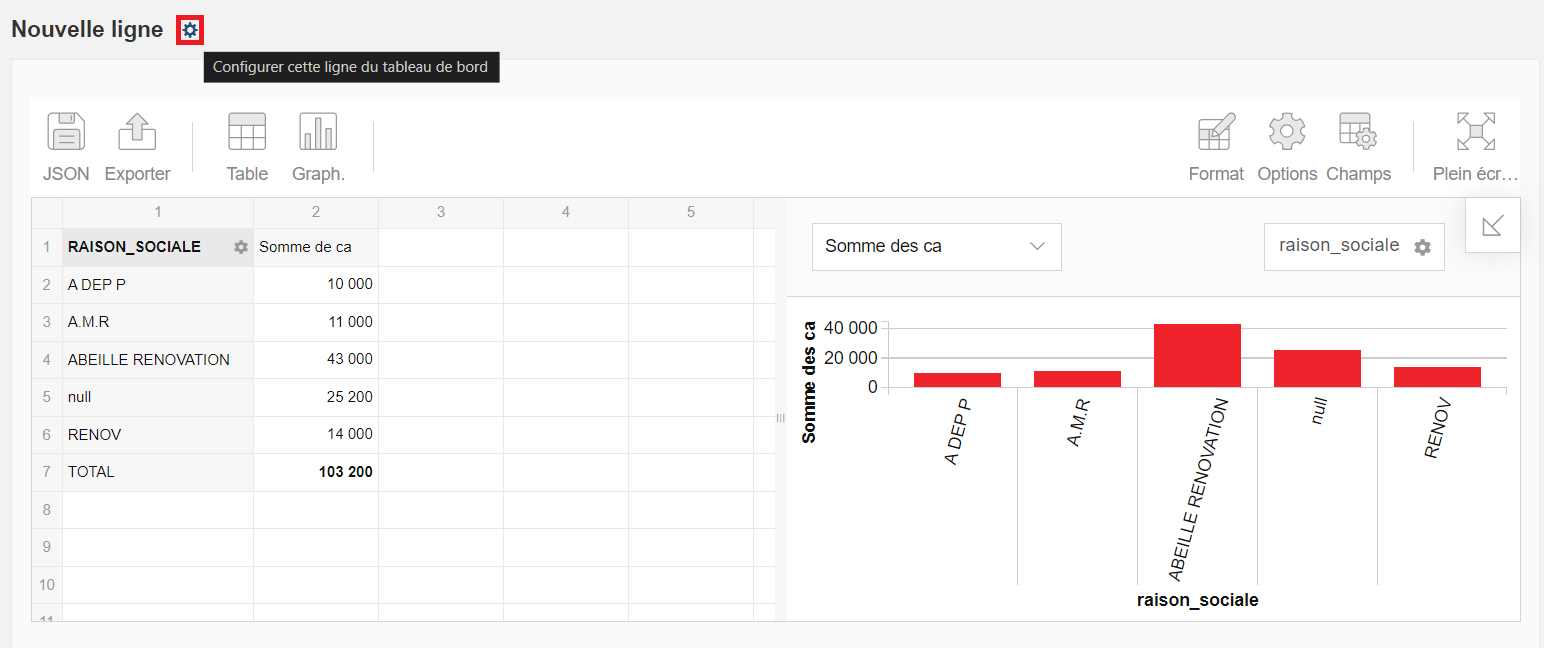
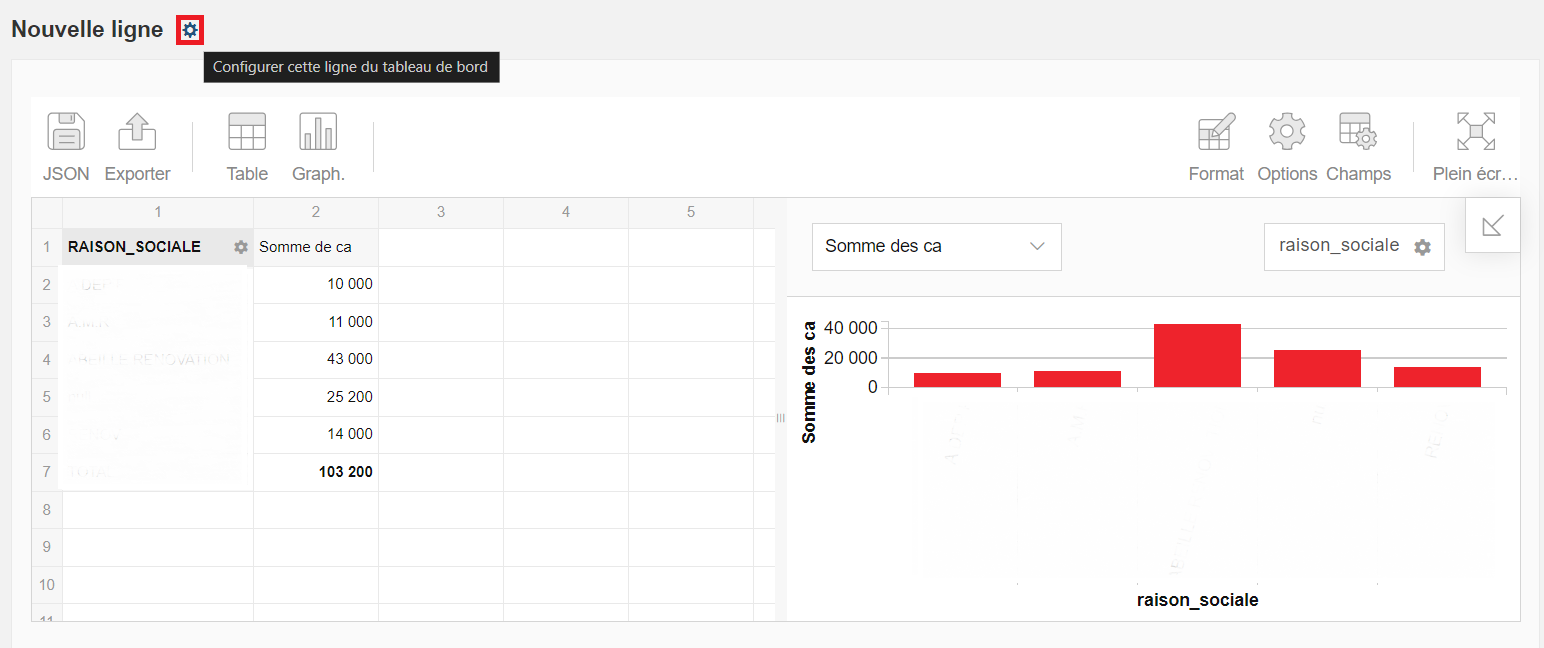
Relecture et floutage des données

diff --git a/formation/dashboard/readme.md b/formation/dashboard/readme.md
@@ -25,7 +25,10 @@ Vous accéderez à l'interface de configuration du Dashboard.
 | **Afficher bouton Fullscreen** | Permet d'afficher un bouton pour passer le dashboard en plein écran                                     |
 
 Pour sélectionner un groupe dans les permissions, cliquer sur l'icone ![screenshot](images/image3.png).
-Cocher le groupe qui aura acès au dashboard puis cliquer sur la flèche ![screenshot](images/image4.png).
+
+![1724227885621](images/image01.png)
+
+Cocher le groupe qui aura accès au dashboard puis cliquer sur la flèche ![screenshot](images/image4.png).
 
 ![screenshot](images/image5.png)
 
@@ -34,11 +37,13 @@ Cocher le groupe qui aura acès au dashboard puis cliquer sur la flèche ![scree
 
 ![screenshot](images/image30.png)
 
+> ***Remarque :** "Afficher au démarrage", "Pour le(s) groupe(s)" et "Afficher bouton Fullscreen" sont des paramètres optionnels.*
+
 5. Cliquer sur le bouton **Ajouter** de la section `Détails` pour ajouter une ligne de dashboard.
 
 ![screenshot](images/image2.png)
 
-6. L'interface Dashboard Line, vous permet d'ajouter de nouvelles lignes sur le Dashboard et d'y insérer des widgets, graphiques, et autres éléments visuels.
+6. L'interface Dashboard Line, vous permet d'ajouter de nouvelles lignes sur le Dashboard et d'y insérer des widgets.
 
 ![screenshot](images/image18.png)
 
